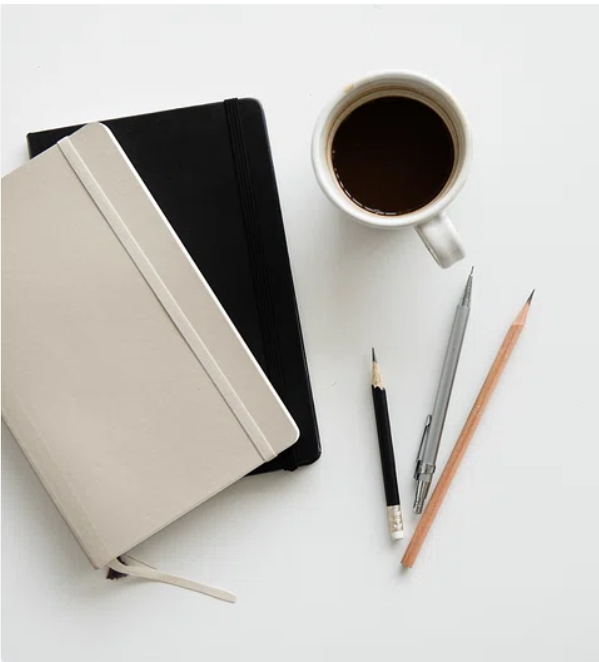
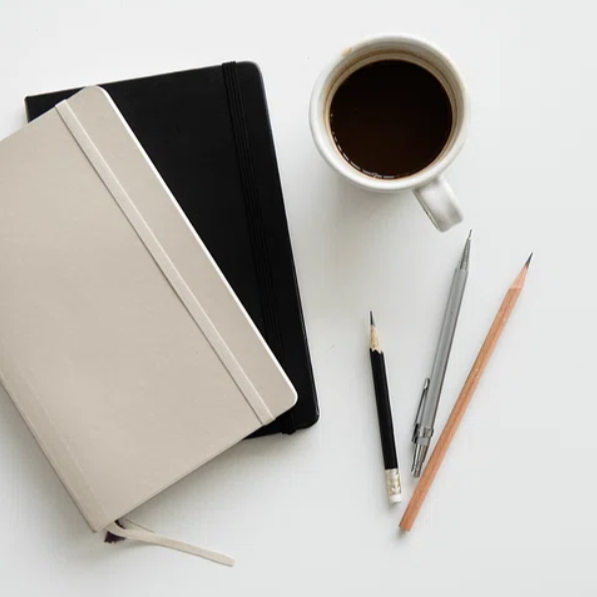
updated photos

diff --git a/Portfolio Website/index.html b/Portfolio Website/index.html
@@ -160,7 +160,7 @@
 
     <!--RIGHT COLUMN-->
         <div class="column_2">
-            <a href="https://github.com/sjensen88" target="_blank"><img src="./images/desktop.png" alt="glasses"></a>
+            <a href="https://github.com/sjensen88" target="_blank"><img src="./images/aerialmeeting.png" alt="aerial meeting"></a>
         </div>
 </div>
 
